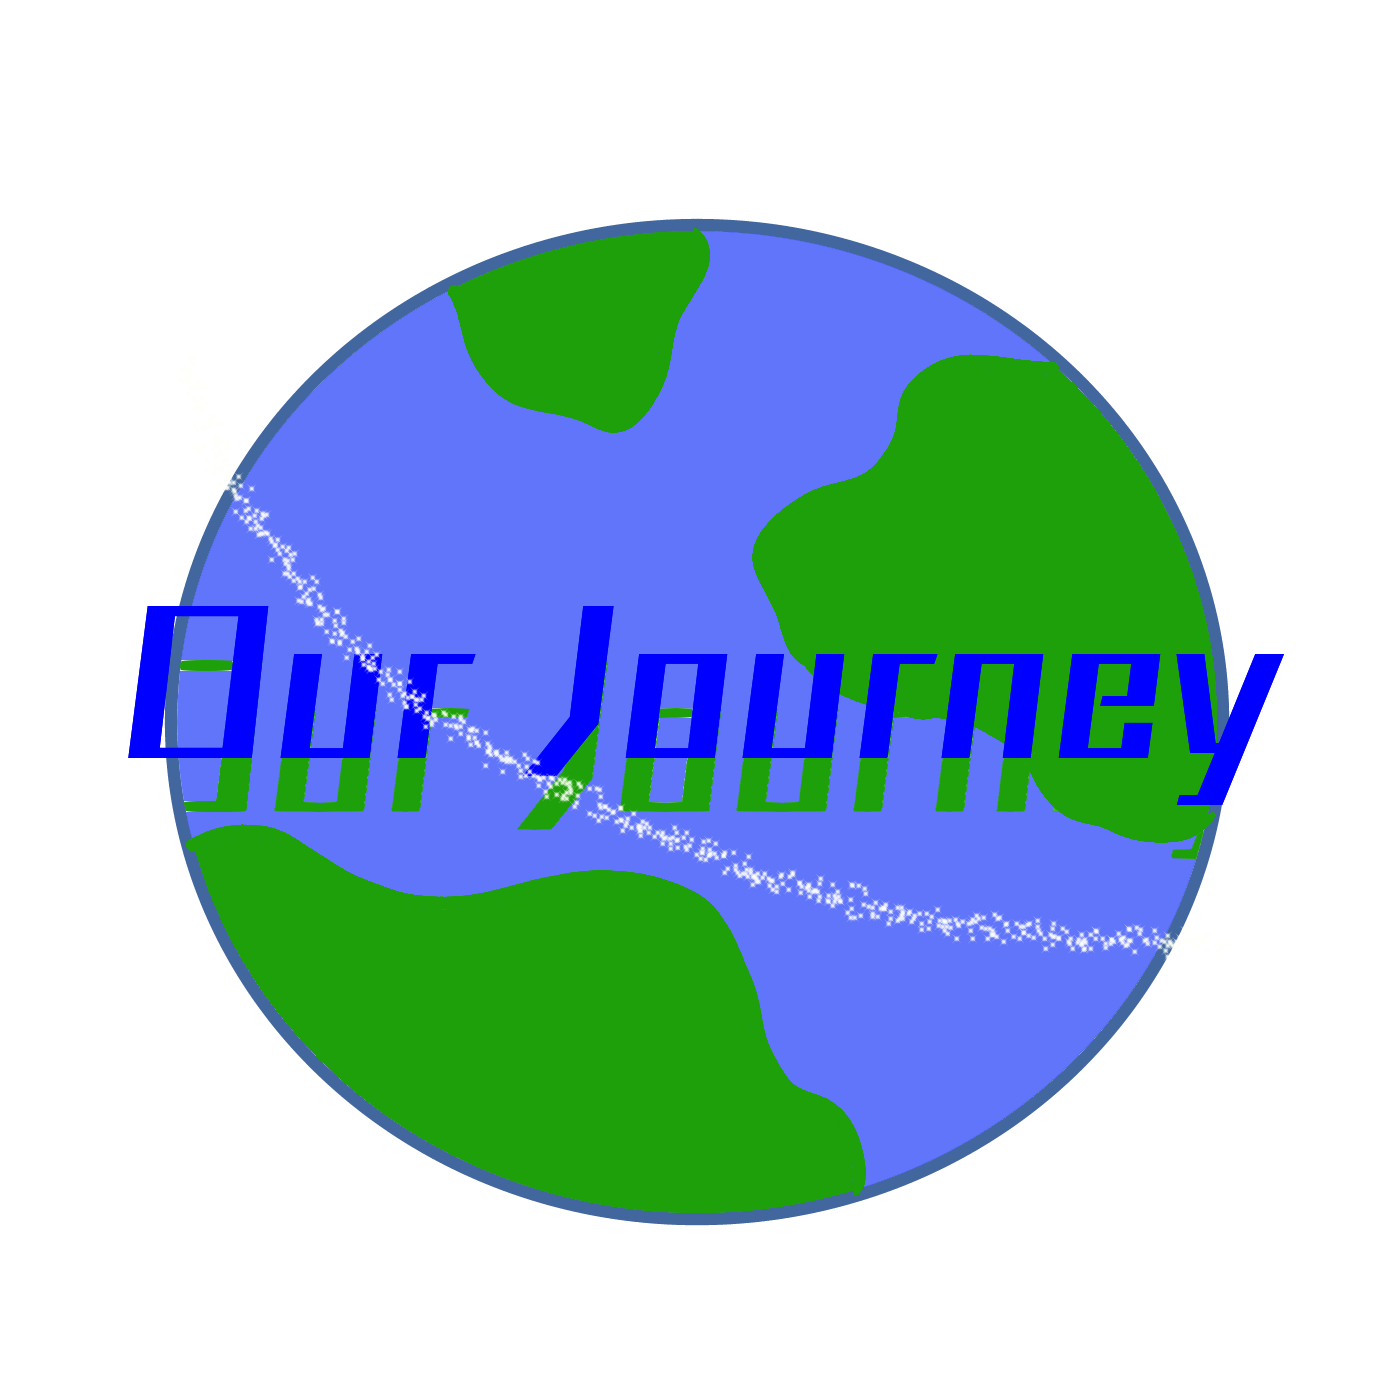
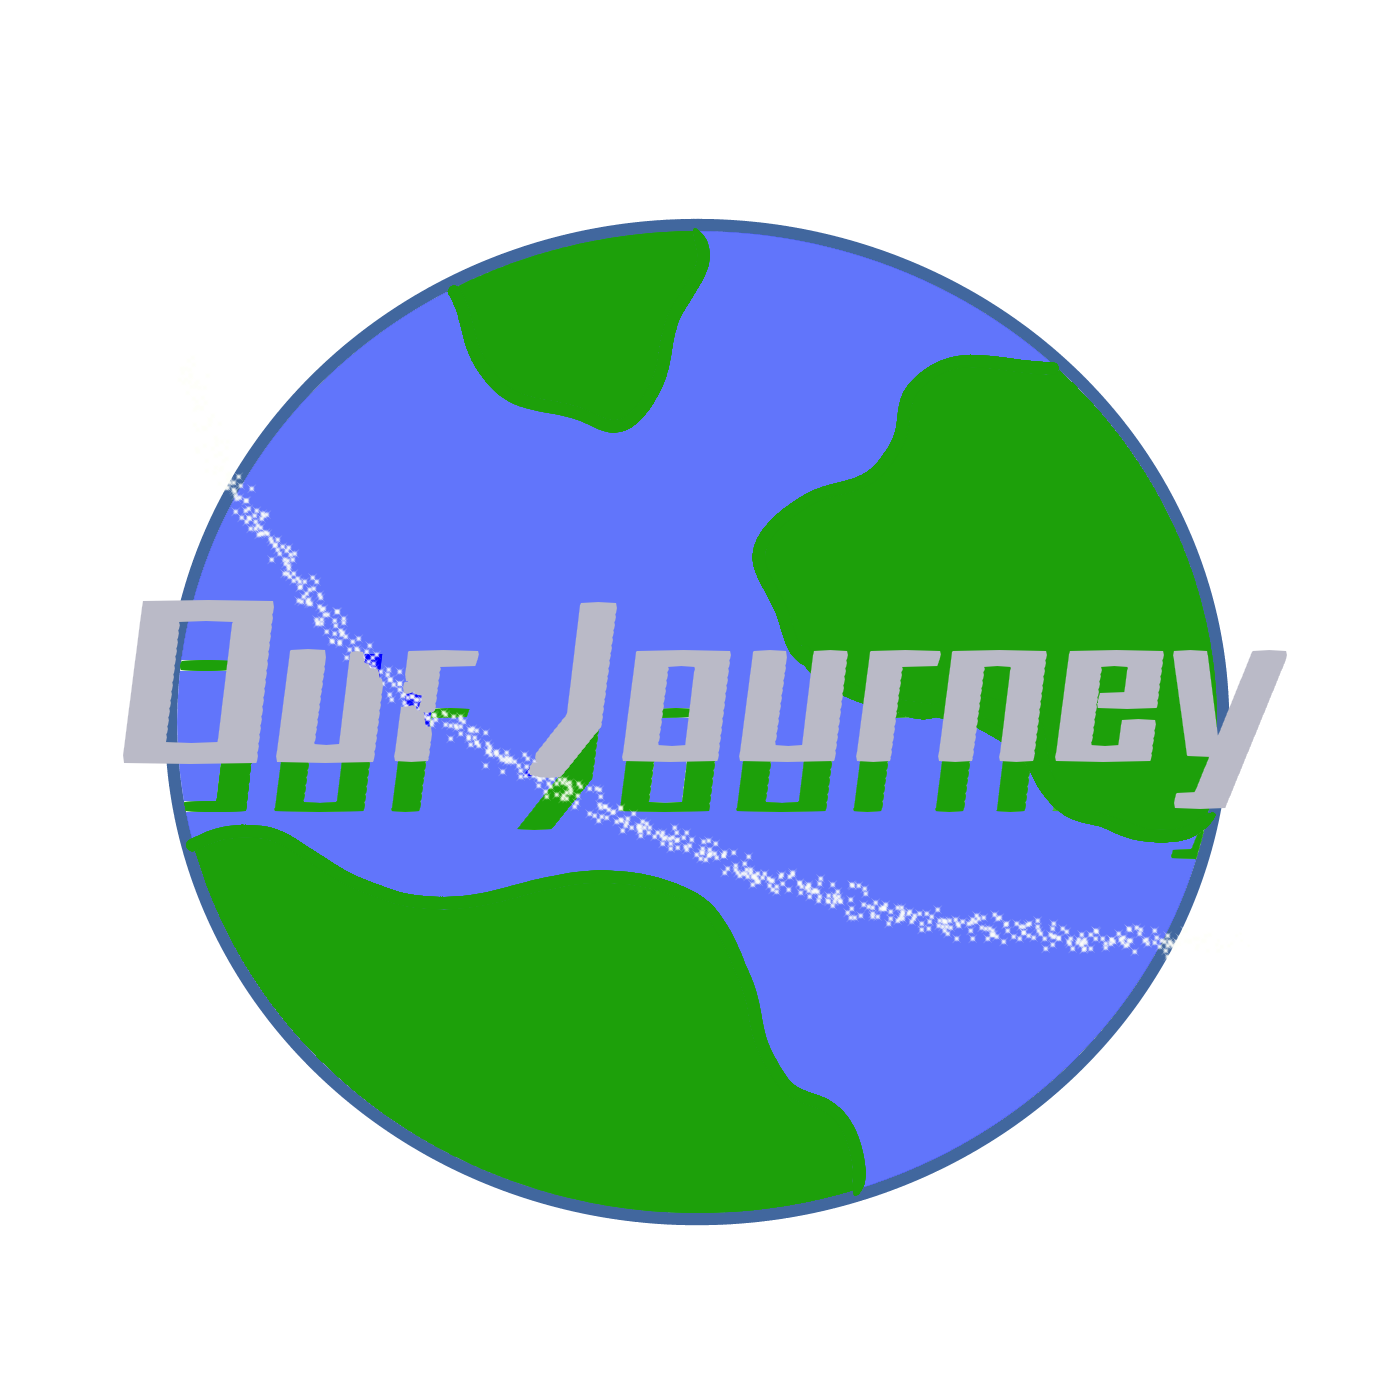
changed

Changed region(s): [[0.3686, 0.43, 0.9214, 0.5836], [0.0921, 0.43, 0.3379, 0.5529]]

diff --git a/index.html b/index.html
@@ -165,16 +165,22 @@
 	</section>
 
 	<!-- Main Screen -->
-	<section data-menu="main" data-background="img/ui/ourjourney.png">
-		<h1>Our Journey</h1>
+	<section data-menu="main" id="page">
+
+		<div class="logo" data-background="img/ui/stars.gif">
+		<img src ="img/ui/ourjourney.png" style="width:50%; height:25%;"/>
+		<span class="vertical align-right animated bounceIn" id="top" >
+				<button data-action="start" data-string="Start">Start</button>
+				<button data-action="open-menu" data-open="load" data-string="Load">Load</button>
+				<button data-action="open-menu" data-open="settings" data-string="Settings">Settings</button>
+				<button data-action="open-menu" data-open="help" data-string="Help">Help</button>
+				</span>
+		
+			
+		</div>
 		<audio type="audio/mpeg" data-component="ambient"></audio>
 
-		<div class="vertical align-right bottom animated bounceIn" data-ui="inner-menu">
-			<button data-action="start" data-string="Start">Start</button>
-			<button data-action="open-menu" data-open="load" data-string="Load">Load</button>
-			<button data-action="open-menu" data-open="settings" data-string="Settings">Settings</button>
-			<button data-action="open-menu" data-open="help" data-string="Help">Help</button>
-		</div>
+		
 	</section>
 
 	<!-- Save Screen -->

diff --git a/style/main.css b/style/main.css
@@ -4,16 +4,25 @@
  * ===========================
 **/
 
+
 @import url(//fonts.googleapis.com/css?family=Lato);
 
 body{
-	background: #F7F6F6;
+	background: black;
 	font-family: 'Lato', sans-serif;
 }
 
 h1, h2{
-	border-bottom: 1px solid #979797;
-	color: #979797;
+	color: white;
+}
+#top {
+	display: inline-block;
+	position: absolute;
+	margin-top: 0;
+}
+#page{
+	height: 100vh;
+
 }
 
 [data-ui='quick-menu'] span{
@@ -21,18 +30,17 @@ h1, h2{
 }
 
 [data-ui="inner-menu"]{
-	border-top: 1px solid #979797;
 	margin-bottom: 2vh;
 }
 
 button{
 	outline: none;
-	background: #00acc1;
+	background: gray;
 	color: white;
 }
 
 button:hover{
-	background: #00bcd4;
+	background: rgb(103, 131, 255);
 }
 
 [data-ui="slots"] figure{

diff --git a/js/script.js b/js/script.js
@@ -66,6 +66,14 @@ var characters = {
 			"Normal": "jnormal.png",
 			"Mad": "jmad.png",
 		}
+	},
+	"l":{ 
+		"Name": "Linda",
+		"Color": "#33333",
+		"Images": {
+			"Normal": "lnormal.png"
+		}
+
 	}
 			
 		
